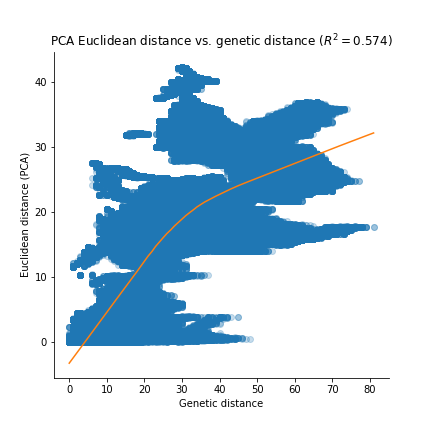
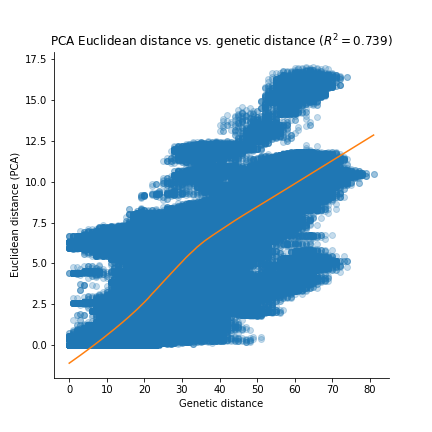
adding new graphs, markdown file of paper draft #1

diff --git a/docs/index.md b/docs/index.md
@@ -83,15 +83,20 @@ Scaling and Centering the Data
 
 Influenza:
 
-- Because PCA (Principal Component Analysis) reduces multidimensional data and not distance matrices, PCA was used to analyze the data in this format. While the ratio given by the within vs between violin plot was 24:1 and a positive R^2 correlation of .57, revealing a tightly clustered set of data, the data was not transformed to show any new pattern or information, and clustered the data almost identically to the .json rendering of the tree.
-<iframe src="https://blab.github.io/cartography/PCAFluBrush.html" style="width: 800px; height: 400px;" frameBorder="0"></iframe>
+- Because PCA (Principal Component Analysis) reduces multidimensional data and not distance matrices, PCA was used to analyze the data in this format. While the ratio given by the within vs between violin plot was 24:1 and a positive R^2 correlation of .739, revealing a tightly clustered set of data, the data was not transformed to show any new pattern or information, and clustered the data almost identically to the .json rendering of the tree.
+<iframe src="https://blab.github.io/cartography/PCAFluBrush.html" style="width: 1200px; height: 400px;" frameBorder="0"></iframe>
 
 ![](PCAViolinPlotFlu.png)
 ![](PCAScatterplotLOESSFlu.png)
 
 Zika:
 
-- The Ratio given by the within vs between violin plot was 1:1, revealing data not clustered at all. The chart reflects this, having no pattern whatsoever. 
+- The Ratio given by the within vs between violin plot was 1:1 and a R^2 correlation of .011, revealing data not clustered at all. The chart reflects this, having no pattern whatsoever. 
+<iframe src="https://blab.github.io/cartography/PCAZikaBrush.html" style="width: 1200px; height: 400px;" frameBorder="0"></iframe>
+
+![](PCAViolinPlotZika.png)
+![](PCAScatterplotLOESSZika.png)
+
 Pairwise distance between genomes
 
 Pairwise distance matrix of genome values worked best for creating plots (show both types of plot and explain why one is better using actual numbers)
